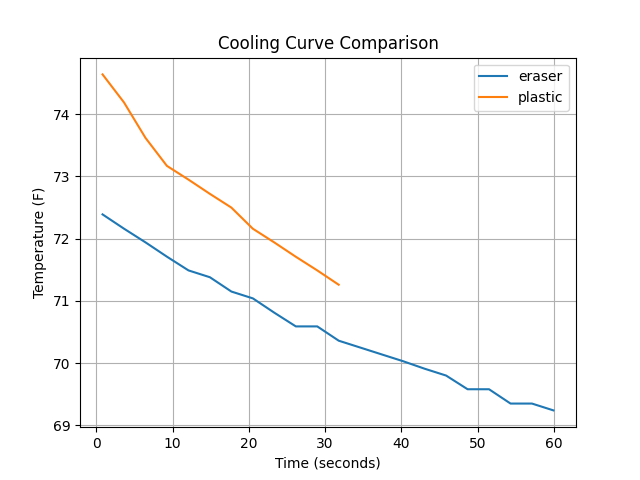
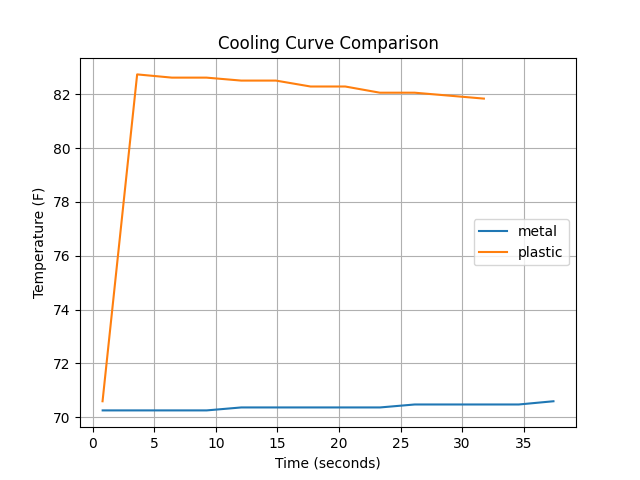
Update project file

diff --git a/graph.py b/graph.py
@@ -2,8 +2,10 @@ import pandas as pd
 import matplotlib.pyplot as plt
 import matplotlib
 
+material = input("Enter material name: ")
+filename = f"{material}_data.csv"
 
-data = pd.read_csv("temp_data.csv")
+data = pd.read_csv(filename)
 
 print("Latest data:")
 print(data.tail())
